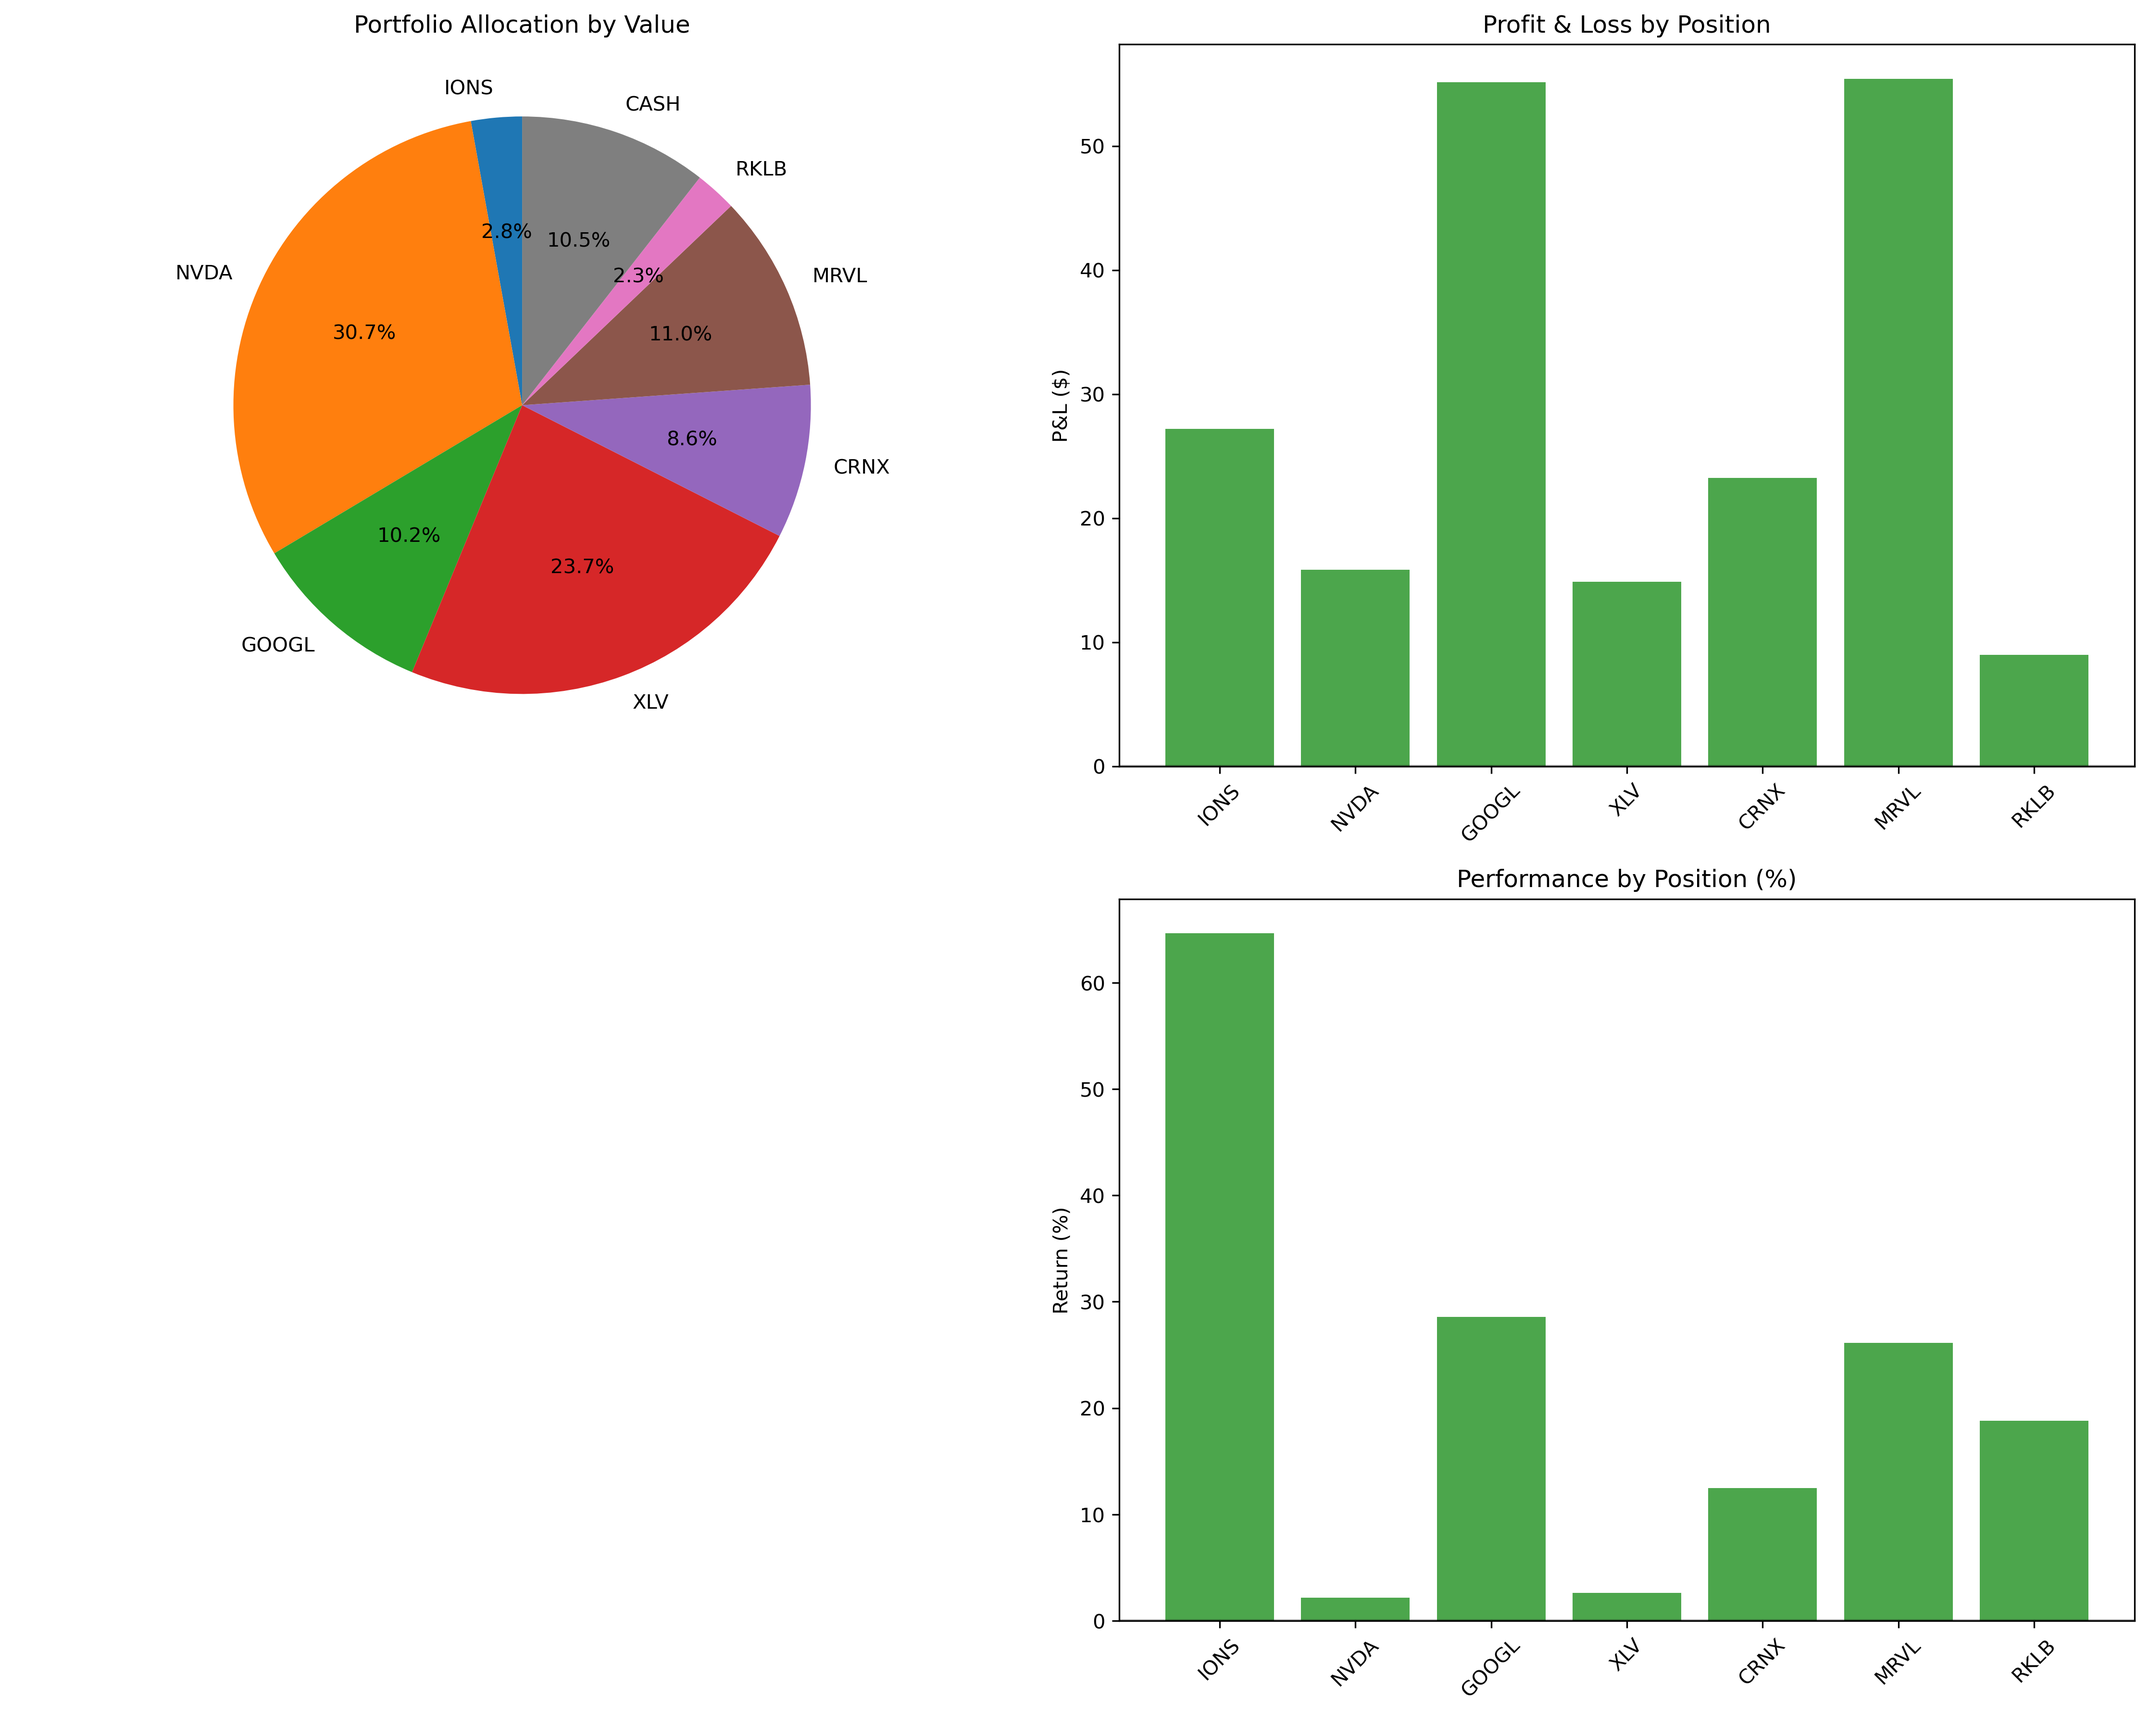
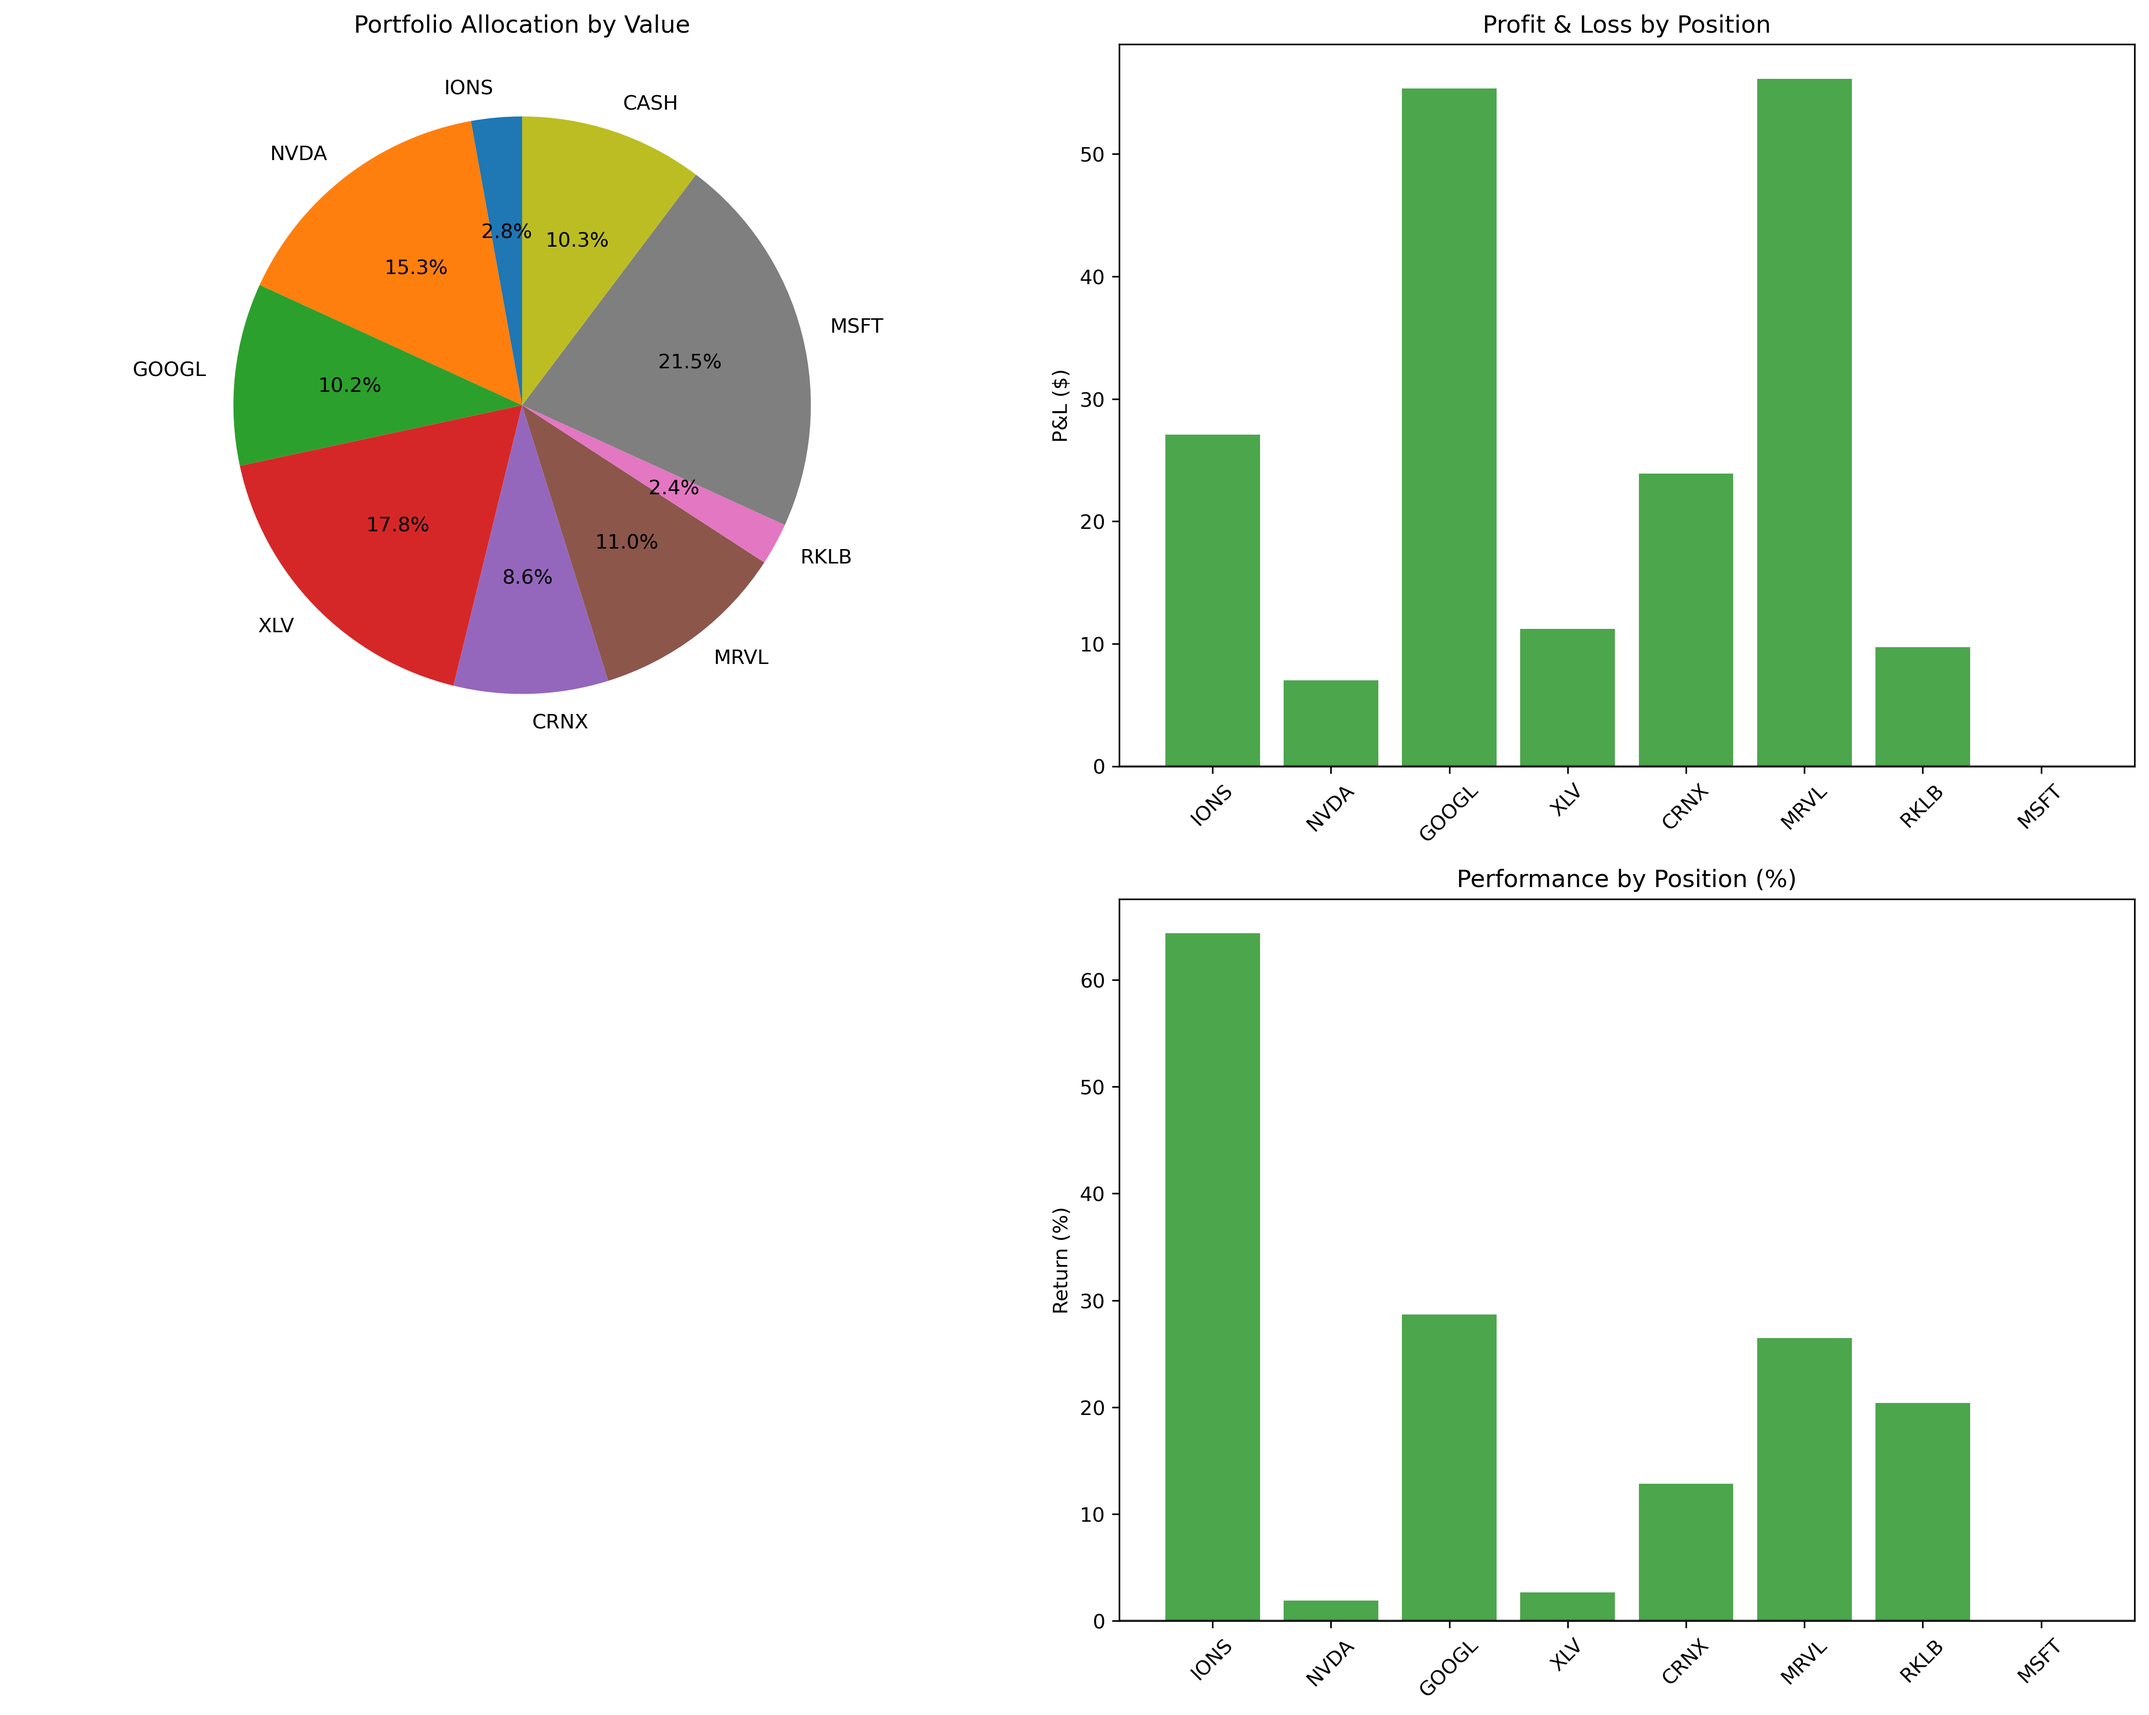
Fresh run

diff --git a/Trading/LLM Managed Portfolio/daily_portfolio_analysis.md b/Trading/LLM Managed Portfolio/daily_portfolio_analysis.md
@@ -1,64 +1,70 @@
 # Daily Portfolio Analysis - 2025-10-06
 
 ## Executive Summary
-- **Total Portfolio Value**: $2,433.23
-- **Total P&L**: $+433.23 (+21.66%)
-- **Cash Position**: $256.69
-- **Active Positions**: 7
+- **Total Portfolio Value**: $2,433.73
+- **Total P&L**: $+433.73 (+21.69%)
+- **Cash Position**: $250.18
+- **Active Positions**: 8
 
 ## Benchmark Comparison
 - **Portfolio Return**: +21.7%
-- **SPY Benchmark**: +6.5%
+- **SPY Benchmark**: +6.4%
 - **IWM Benchmark**: +12.6%
 
 ## Position Analysis
 ### IONS
 - Shares: 1
-- Current Price: $69.27
-- P&L: $+27.20 (+64.64%)
+- Current Price: $69.16
+- P&L: $+27.09 (+64.37%)
 - Portfolio Weight: 2.8%
 
 ### NVDA
-- Shares: 4
-- Current Price: $186.93
-- P&L: $+15.85 (+2.17%)
-- Portfolio Weight: 30.7%
+- Shares: 2
+- Current Price: $186.46
+- P&L: $+7.00 (+1.91%)
+- Portfolio Weight: 15.3%
 
 ### GOOGL
 - Shares: 1
-- Current Price: $248.15
-- P&L: $+55.15 (+28.58%)
+- Current Price: $248.36
+- P&L: $+55.36 (+28.68%)
 - Portfolio Weight: 10.2%
 
 ### XLV
-- Shares: 4
-- Current Price: $144.45
-- P&L: $+14.85 (+2.64%)
-- Portfolio Weight: 23.7%
+- Shares: 3
+- Current Price: $144.47
+- P&L: $+11.21 (+2.66%)
+- Portfolio Weight: 17.8%
 
 ### CRNX
 - Shares: 5
-- Current Price: $41.91
-- P&L: $+23.23 (+12.47%)
+- Current Price: $42.04
+- P&L: $+23.88 (+12.82%)
 - Portfolio Weight: 8.6%
 
 ### MRVL
 - Shares: 3
-- Current Price: $89.15
-- P&L: $+55.43 (+26.14%)
+- Current Price: $89.39
+- P&L: $+56.16 (+26.49%)
 - Portfolio Weight: 11.0%
 
 ### RKLB
 - Shares: 1
-- Current Price: $56.62
-- P&L: $+8.97 (+18.82%)
-- Portfolio Weight: 2.3%
+- Current Price: $57.37
+- P&L: $+9.72 (+20.39%)
+- Portfolio Weight: 2.4%
+
+### MSFT
+- Shares: 1
+- Current Price: $523.93
+- P&L: $+0.02 (+0.00%)
+- Portfolio Weight: 21.5%
 
 ## Alerts & Recommendations
-- **HIGH**: IONS up +64.6% - consider taking profits
+- **HIGH**: IONS up +64.4% - consider taking profits
 
 ## Recent Performance Trend
 *Historical performance data will be populated as data accumulates*
 
 ---
-*Generated: 2025-10-06 12:01:31*
+*Generated: 2025-10-06 12:39:45*
